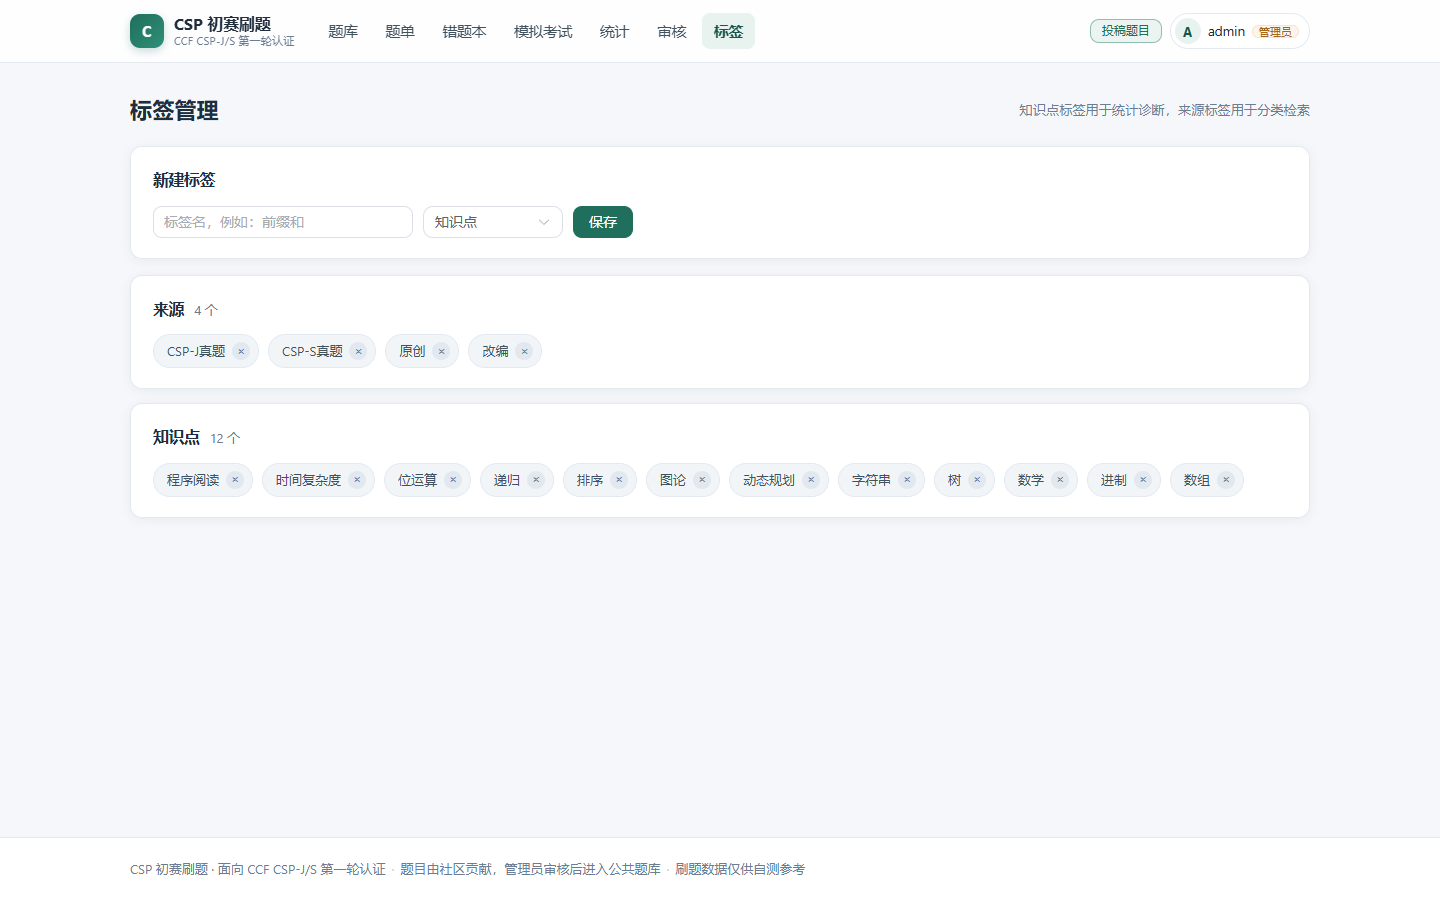
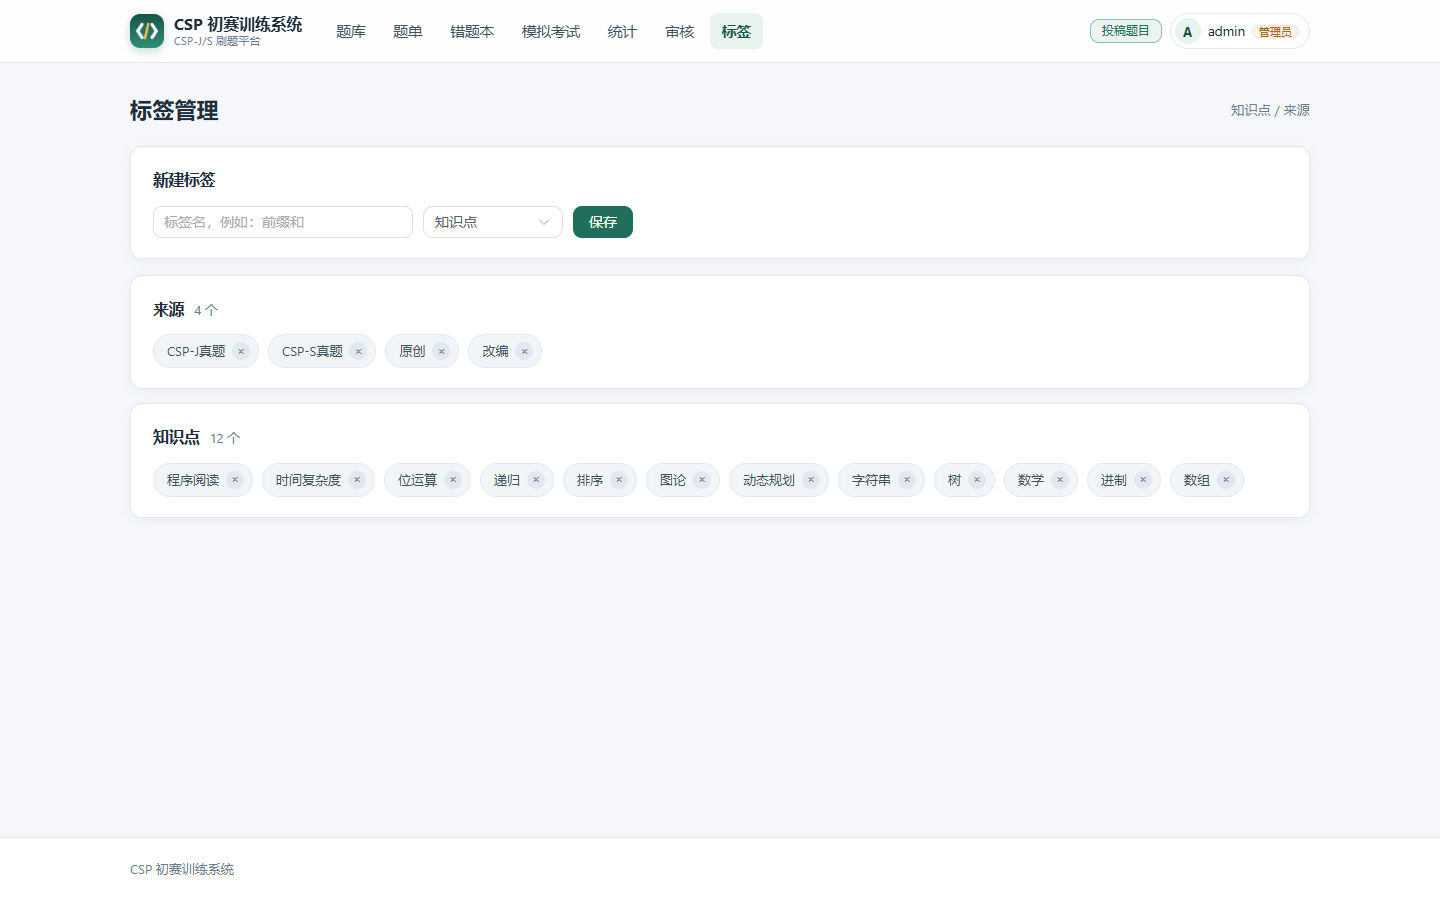
chore: clean sensitive info and text, fix vercel deploy

diff --git a/frontend/src/views/HomeView.vue b/frontend/src/views/HomeView.vue
@@ -18,25 +18,25 @@ const wrongTotal = ref(0)
 const entries = [
   {
     title: '题库浏览',
-    desc: '按题型、标签、年份筛选真题与社区题目',
+    desc: '按题型、标签、年份筛选',
     to: { name: 'problems' },
     mark: '题',
   },
   {
     title: '题单',
-    desc: '自建或收藏题单，按顺序逐题突破',
+    desc: '按顺序逐题练习',
     to: { name: 'lists' },
     mark: '单',
   },
   {
     title: '错题本',
-    desc: '按 1 / 3 / 7 天间隔复习，连续答对两次即掌握',
+    desc: '间隔重复复习',
     to: { name: 'wrong-book' },
     mark: '错',
   },
   {
     title: '模拟考试',
-    desc: '15 单选 + 3 阅读 + 2 完善，限时 120 分钟',
+    desc: '20 题，限时 120 分钟',
     to: { name: 'mock-exams' },
     mark: '考',
   },
@@ -66,26 +66,19 @@ onMounted(async () => {
   <div class="page">
     <section class="hero">
       <div class="hero-content">
-        <p class="eyebrow">CCF CSP-J / CSP-S 第一轮认证</p>
-        <h1>把初赛的每一个知识点<br />练成条件反射</h1>
-        <p class="hero-desc">
-          社区贡献题目 · 管理员审核 · 知识点诊断 · 模拟组卷。选择题为主，纯刷题不跑代码，
-          打开就能练。
-        </p>
+        <p class="eyebrow">CSP-J/S 第一轮认证</p>
+        <h1>CSP-J/S 初赛训练</h1>
+        <p class="hero-desc">覆盖单项选择、阅读程序、完善程序三类题型。</p>
         <div class="hero-actions">
           <el-button type="primary" size="large" @click="router.push({ name: 'problems' })">
-            开始刷题
+            开始训练
           </el-button>
           <el-button size="large" @click="router.push({ name: auth.isLoggedIn ? 'mock-exams' : 'login' })">
             模拟考试
           </el-button>
         </div>
         <div class="hero-meta">
-          <span>{{ total }} 道公开题目</span>
-          <span class="dot-sep">·</span>
-          <span>三种题型全覆盖</span>
-          <span class="dot-sep">·</span>
-          <span>KaTeX 公式渲染</span>
+          <span>{{ total }} 道题目</span>
         </div>
       </div>
 
@@ -95,10 +88,8 @@ onMounted(async () => {
           {{ auth.isLoggedIn ? dueCount : '—' }}<small v-if="auth.isLoggedIn">题</small>
         </p>
         <p class="rc-desc">
-          <template v-if="auth.isLoggedIn">
-            共 {{ wrongTotal }} 道错题在册，按间隔重复巩固
-          </template>
-          <template v-else>登录后自动记录错题并生成复习计划</template>
+          <template v-if="auth.isLoggedIn">共 {{ wrongTotal }} 道错题</template>
+          <template v-else>登录后查看复习计划</template>
         </p>
         <el-button
           type="primary"
@@ -131,8 +122,8 @@ onMounted(async () => {
       </div>
       <EmptyState
         v-if="!loading && !latest.length"
-        title="题库还没有公开题目"
-        description="登录后投稿第一道题，管理员审核通过即可公开"
+        title="题库还没有题目"
+        description="登录后可投稿题目"
         action-text="去投稿"
         @action="router.push({ name: 'problem-create' })"
       />

diff --git a/frontend/src/views/MockExamView.vue b/frontend/src/views/MockExamView.vue
@@ -23,9 +23,9 @@ const history = ref([])
 const historyLoading = ref(false)
 
 const STRUCTURE = [
-  { label: '单项选择', count: 15, score: 30, desc: '每题 2 分，覆盖基础语法与算法常识' },
-  { label: '阅读程序', count: 3, score: 40, desc: '每大题 3 小题，按小题均分' },
-  { label: '完善程序', count: 2, score: 30, desc: '每大题 5 小题，按小题均分' },
+  { label: '单项选择', count: 15, score: 30, desc: '每题 2 分' },
+  { label: '阅读程序', count: 3, score: 40, desc: '3 小题，按小题均分' },
+  { label: '完善程序', count: 2, score: 30, desc: '5 小题，按小题均分' },
 ]
 
 // ---------------- 考试中 ----------------
@@ -257,17 +257,13 @@ onBeforeUnmount(stopTimer)
   <div v-if="!running" class="page">
     <div class="page-title">
       模拟考试
-      <span class="sub">按真实初赛结构组卷，限时 120 分钟，自动判分</span>
+      <span class="sub">20 题 · 120 分钟</span>
     </div>
 
     <section class="intro card">
       <div class="intro-main">
         <h1>CSP 第一轮模拟卷</h1>
-        <p>
-          从已通过审核的题目池中随机抽题：15 道单项选择 + 3 道阅读程序 + 2 道完善程序，
-          共 20 道大题，满分 100 分。交卷后展示逐题解析与知识点得分率，
-          成绩单独统计，不混入普通做题数据。
-        </p>
+        <p>15 道单项选择 + 3 道阅读程序 + 2 道完善程序，满分 100 分。</p>
 
         <div class="structure">
           <div v-for="item in STRUCTURE" :key="item.label" class="structure-item">
@@ -286,9 +282,7 @@ onBeforeUnmount(stopTimer)
             开始考试
           </el-button>
         </div>
-        <p class="intro-tip">
-          开始后立即计时，中途离开会保留本机草稿；题库中题目不足时无法组卷。
-        </p>
+        <p class="intro-tip">开始后立即计时，中途离开会保留本机草稿。</p>
       </div>
 
       <aside class="intro-side">

diff --git a/frontend/src/views/LoginView.vue b/frontend/src/views/LoginView.vue
@@ -40,7 +40,7 @@ async function submit() {
     <div class="auth-card">
       <div class="auth-head">
         <h1>登录</h1>
-        <p>继续你的 CSP 第一轮备考</p>
+        <p>账号登录</p>
       </div>
 
       <el-form ref="formRef" :model="form" :rules="rules" label-position="top" @keyup.enter="submit">
@@ -65,12 +65,6 @@ async function submit() {
         还没有账号？
         <router-link :to="{ name: 'register', query: route.query }">立即注册</router-link>
       </p>
-
-      <div class="demo-tip">
-        <p class="demo-title">演示账号</p>
-        <p>管理员：<code>admin</code> / <code>adminmagnet</code></p>
-        <p>学生：<code>student</code> / <code>student123</code></p>
-      </div>
     </div>
   </div>
 </template>
@@ -121,33 +115,5 @@ async function submit() {
   text-align: center;
   font-size: 13.5px;
   color: var(--muted);
-}
-
-.demo-tip {
-  margin-top: 20px;
-  padding: 12px 14px;
-  background: #f8fafc;
-  border: 1px dashed var(--border);
-  border-radius: 10px;
-  font-size: 12.5px;
-  color: var(--muted);
-  line-height: 1.9;
-}
-
-.demo-tip p {
-  margin: 0;
-}
-
-.demo-title {
-  font-weight: 600;
-  color: #55697a;
-}
-
-.demo-tip code {
-  font-family: var(--mono);
-  background: #eef2f6;
-  padding: 1px 5px;
-  border-radius: 4px;
-  color: #41525f;
 }
 </style>

diff --git a/frontend/src/components/AppHeader.vue b/frontend/src/components/AppHeader.vue
@@ -56,10 +56,10 @@ function goLogin() {
   <header class="app-header">
     <div class="header-inner">
       <router-link :to="{ name: 'home' }" class="brand">
-        <img class="brand-mark" src="/icon/icon-192.png" alt="CSP 初赛刷题" width="34" height="34" />
+        <img class="brand-mark" src="/icon/icon-192.png" alt="CSP 初赛训练系统" width="34" height="34" />
         <span class="brand-text">
-          <strong>CSP 初赛刷题</strong>
-          <em>CCF CSP-J/S 第一轮认证</em>
+          <strong>CSP 初赛训练系统</strong>
+          <em>CSP-J/S 刷题平台</em>
         </span>
       </router-link>
 

diff --git a/frontend/src/views/RegisterView.vue b/frontend/src/views/RegisterView.vue
@@ -94,10 +94,6 @@ async function submit() {
         已有账号？
         <router-link :to="{ name: 'login', query: route.query }">直接登录</router-link>
       </p>
-
-      <p class="notice">
-        密码经哈希后存储，平台不会保存明文。题目投稿需管理员审核后才会公开。
-      </p>
     </div>
   </div>
 </template>
@@ -148,13 +144,5 @@ async function submit() {
   text-align: center;
   font-size: 13.5px;
   color: var(--muted);
-}
-
-.notice {
-  margin: 16px 0 0;
-  font-size: 12px;
-  line-height: 1.8;
-  color: #8a99a8;
-  text-align: center;
 }
 </style>

diff --git a/frontend/src/App.vue b/frontend/src/App.vue
@@ -37,11 +37,7 @@ onMounted(() => {
 
     <footer v-if="showFooter" class="app-footer">
       <div class="footer-inner">
-        <span>CSP 初赛刷题 · 面向 CCF CSP-J/S 第一轮认证</span>
-        <span class="dot-sep">·</span>
-        <span>题目由社区贡献，管理员审核后进入公共题库</span>
-        <span class="dot-sep">·</span>
-        <span>刷题数据仅供自测参考</span>
+        <span>CSP 初赛训练系统</span>
       </div>
     </footer>
 

diff --git a/frontend/index.html b/frontend/index.html
@@ -10,7 +10,7 @@
     <meta name="theme-color" content="#1f6f5c" />
     <meta name="viewport" content="width=device-width, initial-scale=1.0" />
     <meta name="description" content="CCF CSP-J/S 第一轮认证刷题平台：真题、题单、错题本与模拟考试" />
-    <title>CSP 初赛刷题 · CCF CSP 第一轮认证</title>
+    <title>CSP 初赛训练系统</title>
   </head>
   <body>
     <div id="app"></div>

diff --git a/frontend/src/views/StatsView.vue b/frontend/src/views/StatsView.vue
@@ -45,7 +45,7 @@ onMounted(async () => {
   <div class="page">
     <div class="page-title">
       做题统计
-      <span class="sub">数据来自普通练习记录，模拟考试成绩单独统计</span>
+      <span class="sub">练习数据统计</span>
       <span class="spacer" />
       <el-button size="small" @click="router.push({ name: 'mock-exams' })">去模拟考试</el-button>
     </div>

diff --git a/frontend/src/views/ProblemsView.vue b/frontend/src/views/ProblemsView.vue
@@ -159,7 +159,7 @@ onMounted(async () => {
   <div class="page">
     <div class="page-title">
       题库
-      <span class="sub">共 {{ total }} 道已通过审核的题目</span>
+      <span class="sub">共 {{ total }} 道题目</span>
       <span class="spacer" />
       <el-button type="primary" @click="router.push({ name: 'problem-create' })">投稿题目</el-button>
     </div>

diff --git a/frontend/src/router/index.js b/frontend/src/router/index.js
@@ -137,7 +137,7 @@ router.beforeEach(async (to) => {
   if (to.meta.guestOnly && auth.isLoggedIn) {
     return { name: 'home' }
   }
-  document.title = to.meta.title ? `${to.meta.title} · CSP 初赛刷题` : 'CSP 初赛刷题'
+  document.title = to.meta.title ? `${to.meta.title} · CSP 初赛训练系统` : 'CSP 初赛训练系统'
   return true
 })
 

diff --git a/frontend/src/views/ListsView.vue b/frontend/src/views/ListsView.vue
@@ -69,7 +69,7 @@ onMounted(load)
   <div class="page">
     <div class="page-title">
       题单
-      <span class="sub">按主题收集已通过审核的题目，按顺序刷题</span>
+      <span class="sub">按顺序练习</span>
       <span class="spacer" />
       <el-button type="primary" @click="openCreate">新建题单</el-button>
     </div>

diff --git a/frontend/src/views/TagsAdminView.vue b/frontend/src/views/TagsAdminView.vue
@@ -76,7 +76,7 @@ onMounted(load)
   <div class="page">
     <div class="page-title">
       标签管理
-      <span class="sub">知识点标签用于统计诊断，来源标签用于分类检索</span>
+      <span class="sub">知识点 / 来源</span>
     </div>
 
     <div class="card create-card">
